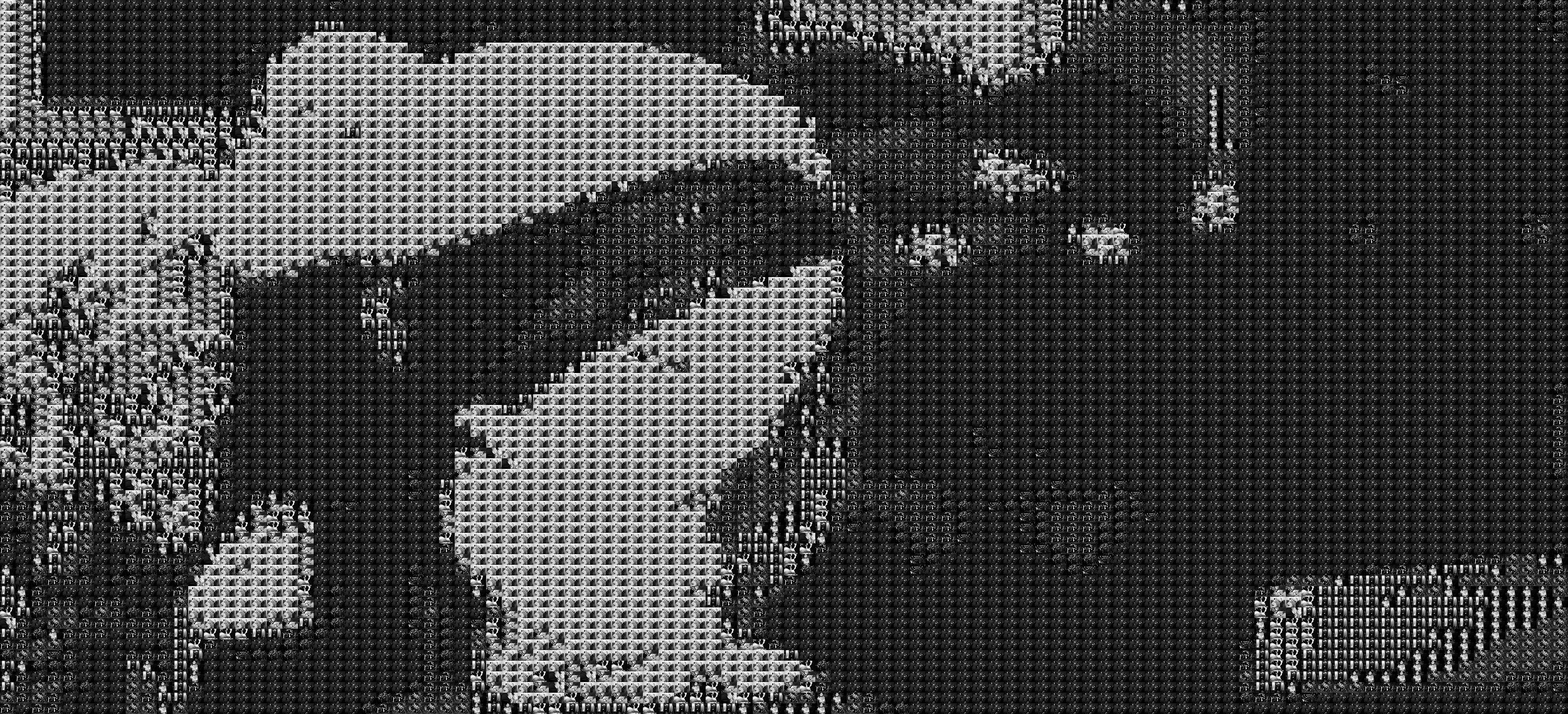
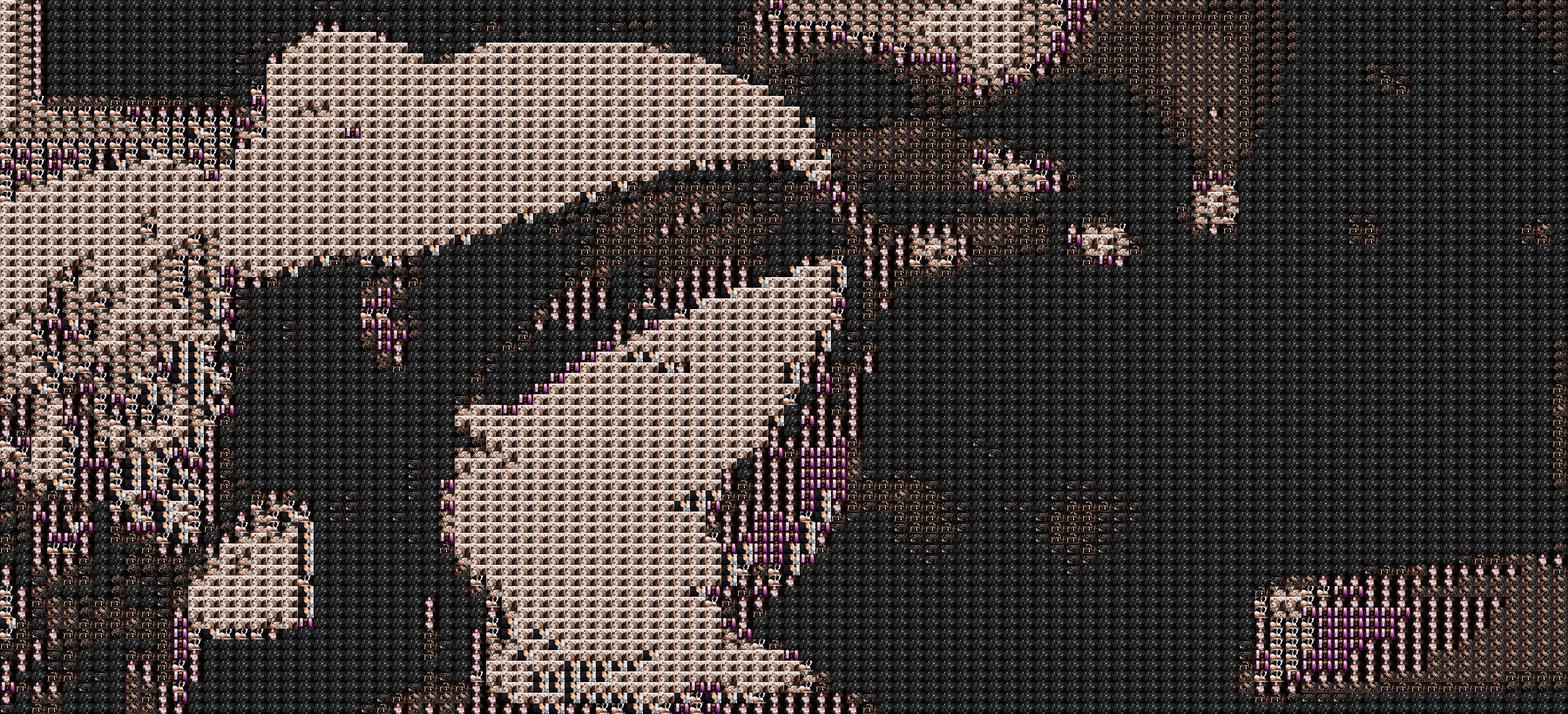
works with color!

diff --git a/mosaic.py b/mosaic.py
@@ -9,8 +9,9 @@ resize_dir = "resized"  # Folder for resized images
 output_dir = "output"
 image_files = os.listdir(image_dir)
 file_extensions = ["jpg", "jpeg", "png"]
-# testing out a smaller resolutuon of image1.jpg
-src_img = cv2.imread("image1 copy.jpg", cv2.IMREAD_GRAYSCALE)
+# !! testing out a smaller resolutuon of image1.jpg
+# src_img = cv2.imread("image1 copy.jpg", cv2.IMREAD_GRAYSCALE)
+src_img = cv2.imread("image1 copy.jpg")
 # mosaic_img = np.zeros((src_img.shape[0]*17, src_img.shape[1]*25,3))
 
 # Input images are 500 * 333 pixels
@@ -24,7 +25,7 @@ def resizeImages(images):
             images.remove(img)
         else:
             image = cv2.imread(os.path.join(image_dir, img))
-            image = cv2.cvtColor(image, cv2.COLOR_BGR2GRAY)
+            # image = cv2.cvtColor(image, cv2.COLOR_BGR2GRAY)
             resized = cv2.resize(image, (25, 17))
             cv2.imwrite(resize_dir + "/" + img, resized)
 
@@ -32,7 +33,7 @@ def resizeImages(images):
     return images
 
 
-# Average color of image
+# Average color of little image (not the source)
 #   Args:
 #    img (numpy.ndarray) : greyscale or color image represented as a
 #                            numpy array
@@ -41,36 +42,47 @@ def resizeImages(images):
 #                               (last value can be ignored)
 def avgRGB(img):
     avg = cv2.mean(img)
-    avg = avg[0]
-    # avg = avg[:3]
+    # avg = avg[0] # for grayscale
+    avg = avg[:3]
     # print avg
     return avg
+
+
+# ?? maybe make a method to find the average RGB of a block ??  
 
 
 def bestMatchImage(mainImg, images):
     difference = 0
     bestMatchImage = images[0]
-    mosaic_img = np.zeros((mainImg.shape[0]*17, mainImg.shape[1]*25,3))
-    # progress = 0 # lets me keep track of how long until program finishes
+    # mosaic_img is array to store images for final image
+    # ?? If output image is same as original, then ?? 
+    # mosaic_img = np.zeros((mainImg.shape[0], maingImg.shape[1], 3))
+    mosaic_img = np.zeros((mainImg.shape[0]*17, mainImg.shape[1]*25,3)) 
+    progress = 0 # lets me keep track of how long until program finishes
+    image_size = mainImg.shape[0]*mainImg.shape[1]
 
-    for i in range(mainImg.shape[0]): 
-        for j in range(mainImg.shape[1]): 
-            # progress += 1
-            # print progress
-            smallest_difference = 255
+    
+    # Note: opencv stores image coordinates backwards (height, width)
+    for i in range(mainImg.shape[0]): # 0 to height of image (ex. 333)
+        for j in range(mainImg.shape[1]):  # 0 to width of image (ex. 500)
+            progress += 1
+            # ?? Might be different since you're working with blocks ?? 
+            print progress, "out of", image_size, "pixels"  
+            # smallest_difference = 255 # for grayscale
+            smallest_difference = np.sqrt(3*np.power(255,2))
 
             for img in images:
                 image_name = img
                 img = cv2.imread("resized/"+img)
-                difference = mainImg[i][j] - avgRGB(img)
-                # print "Difference: ",image_name, " ", progress
+                difference = np.sqrt(np.power(mainImg[i,j,0]-avgRGB(img)[0],2) +
+                    np.power(mainImg[i,j,1]-avgRGB(img)[1],2) +
+                    np.power(mainImg[i,j,2]-avgRGB(img)[2],2))
+                # difference = mainImg[i][j] - avgRGB(img) # for grayscale
 
-                if abs(difference) < smallest_difference:
-                    smallest_difference = abs(difference)
+                if difference < smallest_difference:
+                    smallest_difference = difference
                     bestMatchImage = img
-                    # print smallest_difference, " ", progress
 
-            # print best_name, " ", progress
             index = (i,j)
             insertImage(mosaic_img, bestMatchImage, index)
 
@@ -78,17 +90,20 @@ def bestMatchImage(mainImg, images):
     return mosaic_img
 
 
-# insert picture into pixel
+# insert picture into pixel of original image
+# ?? change to put image into block ?? 
 def insertImage(mosaic_img, image, index):
     for i in range(index[0]*17, index[0]*17+17):
         for j in range(index[1]*25, index[1]*25+25):
-            print (i,j)
+            # print (i,j)
             mosaic_img[i,j] = image[i%17,j%25]
 
 
 image_files = resizeImages(image_files)
 mosaic = bestMatchImage(src_img, image_files)
-cv2.imwrite("mosaic.jpg",mosaic)
+
+# Saves mosaic image to computer
+# cv2.imwrite("mosaic.jpg",mosaic)
 
 
 
